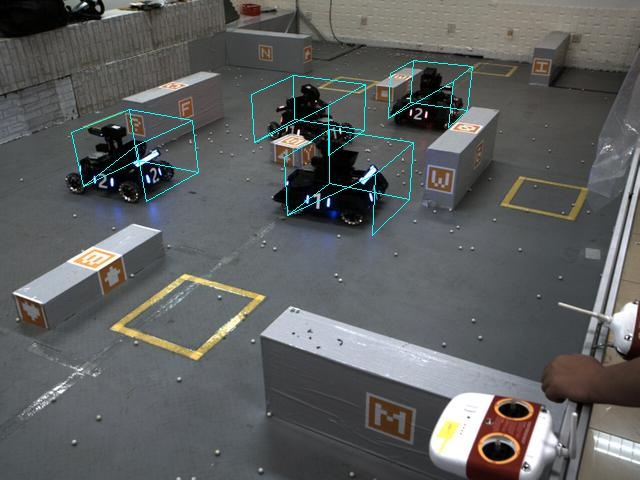
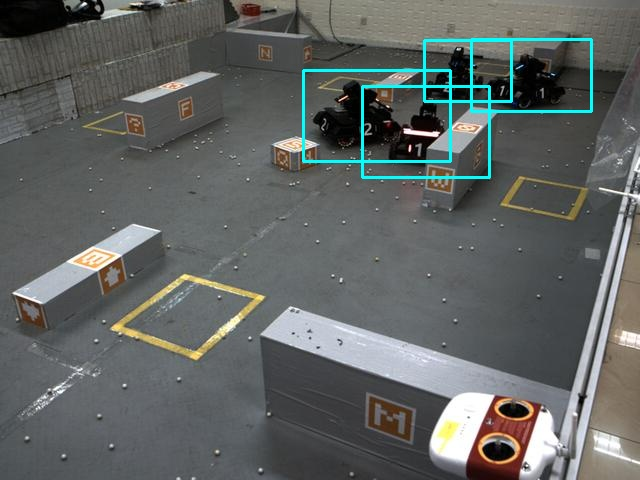
完成了外接框

diff --git a/detectors/OFTTrainer.py b/detectors/OFTTrainer.py
@@ -125,11 +125,18 @@ class OFTtrainer(BaseTrainer):
             left_2d_bbox, right_2d_bbox = getprojected_3dbox(roi_3d, extrin, intrin)
             left_img = cv2.imread("/home/dzc/Data/4carreal_0318blend/img/left1/%d.jpg" % frame)
             print(left_2d_bbox.shape)
+            # for car in left_2d_bbox:
+            #     for n in range(len(car)):
+            #         for m in range(len(car)):
+            #             if abs(n - m) == 1 or abs(n - m) == 4:
+            #                 cv2.line(left_img, (car[n][0], car[n][1]), (car[m][0], car[m][1]), color=(255, 255, 0), thickness=1)
+
             for car in left_2d_bbox:
-                for n in range(len(car)):
-                    for m in range(len(car)):
-                        if abs(n - m) == 1 or abs(n - m) == 4:
-                            cv2.line(left_img, (car[n][0], car[n][1]), (car[m][0], car[m][1]), color=(255, 255, 0), thickness=1)
+                xmax = max(car[:, 0])
+                xmin = min(car[:, 0])
+                ymax = max(car[:, 1])
+                ymin = min(car[:, 1])
+                cv2.rectangle(left_img, (xmin, ymin), (xmax, ymax), color = (255, 255, 0), thickness = 2)
             cv2.imwrite("/home/dzc/Desktop/CASIA/proj/mvRPN-det/left_img.jpg", left_img)
 def test(self,epoch, data_loader, writer):
         self.model.eval()
